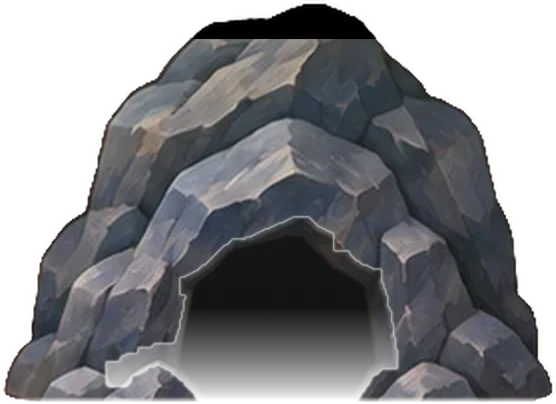
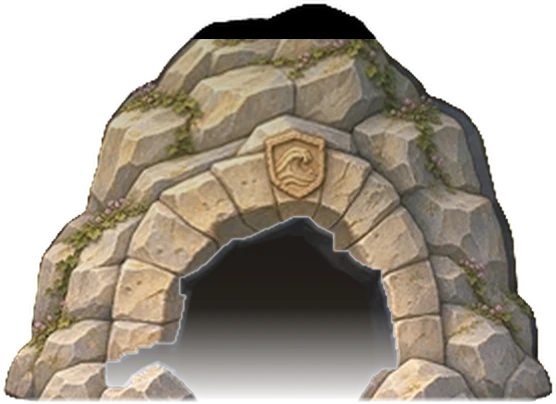
night(codex): round 15

diff --git a/tools/map-compose/test_ground.py b/tools/map-compose/test_ground.py
@@ -8,13 +8,35 @@ import fords
 from banks import shore_foundation
 from gates import draw_threshold_road, output_sprite
 from keeps import Keep, sample
-from masonry import RoadArcade, brick_spur, cart_tracks, paved_road
+from masonry import RoadArcade, arch_bridge, brick_spur, cart_tracks, paved_road
 
 from ground import Decals, DressingArea, brushed_surface, dusty_road_coverage, paint_over_road, road_footprint, road_fringe, scatter
 from ground import windblown_road_coverage
 
 
 class GroundTests(unittest.TestCase):
+    def test_bridge_follows_both_landings_and_exposes_its_arch_above_the_gorge(self):
+        land = Image.new('L', (100, 80), 255)
+        ImageDraw.Draw(land).rectangle((32, 0, 67, 79), fill=0)
+        ImageDraw.Draw(land).rectangle((32, 33, 38, 35), fill=255)
+        paint = Image.new('RGBA', (80, 36), 'tan')
+        ink = ImageDraw.Draw(paint)
+        ink.rectangle((0, 0, 79, 11), fill='silver')
+        ink.rectangle((29, 20, 39, 35), fill=(0, 0, 0, 0))
+        for scale in (1, 2, 3):
+            ground = Image.new('RGBA', (200*scale, 160*scale), 'teal')
+            arch_bridge(ground, paint, land, (200, 160), (20, 40), (180, 80),
+                        12, 24, 6, scale)
+            # Both ends have a deck, with their foundations buried in the bank.
+            for x in (40, 160):
+                y = 40 + (x-20)//4
+                self.assertEqual(ground.getpixel((x*scale, (y-6)*scale)), ImageColor.getcolor('silver', 'RGBA'))
+                self.assertEqual(ground.getpixel((x*scale, (y+14)*scale)), ImageColor.getcolor('teal', 'RGBA'))
+            # A grass spur in front of the left pier hides the masonry all the way down.
+            for x, color in ((72, 'teal'), (80, 'teal'), (108, 'tan'), (120, 'tan')):
+                y = 40 + (x-20)//4 + 15
+                self.assertEqual(ground.getpixel((x*scale, y*scale)), ImageColor.getcolor(color, 'RGBA'))
+
     def test_paving_strip_runs_once_from_the_entrance_and_turns_with_the_lane(self):
         paint = Image.new('RGB', (94, 21), 'slategray')
         ink = ImageDraw.Draw(paint)

diff --git a/tools/map-compose/masonry.py b/tools/map-compose/masonry.py
@@ -6,6 +6,36 @@ import numpy as np
 from PIL import Image, ImageChops, ImageDraw, ImageEnhance, ImageFilter
 
 
+def arch_bridge(ground, paint, land, layout_size, start, end, above, below, curb, scale):
+    """Shear an east-west elevation along the lane, burying its piers in the two banks.
+
+    The endpoints mark the deck centre. Above/below bound the painting vertically
+    relative to that line. Only masonry below the near curb can disappear behind land.
+    """
+    x0, y0 = start
+    x1, y1 = end
+    bounds = (x0, min(y0, y1)-above, x1, max(y0, y1)+below)
+    left, top, right, bottom = (round(v*scale) for v in bounds)
+    size = right-left, bottom-top
+    slope = (y1-y0)/(x1-x0)
+    sx, sy = paint.width/((x1-x0)*scale), paint.height/((above+below)*scale)
+    dx = left-x0*scale
+    matrix = (sx, 0, dx*sx, -slope*sy, sy, (top-(y0-above)*scale-slope*dx)*sy)
+    bridge = paint.transform(size, Image.Transform.AFFINE, matrix, Image.Resampling.BICUBIC)
+
+    mx, my = land.width/(layout_size[0]*scale), land.height/(layout_size[1]*scale)
+    bank = land.transform(size, Image.Transform.EXTENT, (left*mx, top*my, right*mx, bottom*my),
+                          Image.Resampling.BILINEAR)
+    yy, xx = np.ogrid[:size[1], :size[0]]
+    depth = (top+yy+.5)/scale - y0 - slope*((left+xx+.5)/scale-x0)
+    soil = np.asarray(bank) * np.clip(depth-curb, 0, 1)
+    # Once a pier enters the bank, it cannot reappear below the projecting ledge.
+    soil = np.maximum.accumulate(soil, axis=0)
+    bridge.putalpha(ImageChops.multiply(bridge.getchannel('A'), Image.fromarray((255-soil).astype('uint8'))))
+    ground.alpha_composite(bridge, (left, top))
+    return bounds
+
+
 class RoadCourse:
     """Distance along a polyline and a signed offset from its centre."""
     def __init__(self, path):

diff --git a/tools/map-compose/compose.py b/tools/map-compose/compose.py
@@ -92,7 +92,7 @@ from gates import (  # noqa: E402
 )
 import fords  # noqa: E402
 from banks import shore_foundation  # noqa: E402
-from masonry import RoadArcade, brick_spur, cart_tracks, marble_road, moat_wall, paved_road  # noqa: E402
+from masonry import RoadArcade, arch_bridge, brick_spur, cart_tracks, marble_road, moat_wall, paved_road  # noqa: E402
 from keeps import Keep  # noqa: E402
 from ground import (  # noqa: E402
     Decals, DressingArea, brushed_surface, dusty_road_coverage, fine_detail, inner_band, paint_over_road, ragged_mask,
@@ -829,6 +829,10 @@ if ford_patches:
 
 # Crossings share the road centreline. These deck stamps have no collision or sim geometry.
 crossing_rects = []
+for name, start, end, above, below, curb in dressing.get('archBridges', []):
+    bounds = arch_bridge(ground, load(f'landmark-{name}.webp'), land_mask, (iw, ih),
+                         start, end, above, below, curb, S)
+    crossing_rects.append(bounds)
 for name, x, y, length, width, angle in dressing.get('crossings', []):
     deck = load(f'landmark-{name}.webp').resize((round(width * S), round(length * S)), Image.Resampling.LANCZOS)
     deck = deck.rotate(angle, Image.Resampling.BICUBIC, expand=True)

diff --git a/docs/overnight/PROGRESS-codex.md b/docs/overnight/PROGRESS-codex.md
@@ -1,5 +1,28 @@
 # Content overnight · codex
 
+## Round 15 · 04:20–04:45 UTC · codex/night
+
+Started from `6cd2a1f`. Changes are in the working tree for the overnight runner.
+
+### Done
+
+- **i07 Skybridge Gauntlet.** The eastern fort overlooks the outbound crossing. Its watch stair descends to the road opposite the sundial from the intro. The northern bridge carries a teal banner on its middle pier. The return bridge has one recessed arch with a carved sun keystone. Pale setts give way to gravel on the approaches. Replaced the repeated loose anchors and rubble with grass, heather and a few windswept pines. [Whole island and native 2× details](maps-round15-skybridge.jpg)
+- The cliff painting now shows the stream below both decks. Matching limestone ledges carry the tower rings and support the northern pier. An early bake stretched the cliff strata and let a buried abutment reappear through a notch. Repainted the rock faces and corrected the compositor so the bank hides the pier all the way down. A regression exercises the deck slope, open arch and projecting bank at three resolutions. The first phone battle hid the beacon woodstore behind the ability buttons. It now sits east of the buttons in the keep yard. [Source paintings and rebuild command](../../design/art-2d/v2/biomes/highlands/skybridge-gauntlet.md)
+
+### Verification
+
+- Re-baked with `--keep-plots`. All 25 saved layouts match the starting revision byte for byte and pass the geometry checks, including i07's single road, entrance, goal and 26 plots. Decoded all 100 map textures and 132 gate fronts. The four i07 front alpha channels match their originals. An independent bake reproduced all eight shipping files byte for byte. Together they grew by 707,724 bytes, including 86,030 bytes for the phone's 1.5× map.
+- In Bridgehead, two archers and a cannon bought with the starting gold defended the return road. A grunt reached the outbound span 382 simulation steps after the horn and a runner reached the return span at step 1,055. Both screenshots show their feet on the deck. Also played Gauntlet Run with four towers and The Last Span with 16 towers and 60 active enemies. The 12 before/after pairs match on ground-enemy positions, total enemies, builds, lives, gold, camera and texture selection. The final DPR 2 reference pair was recaptured after the browser job was interrupted. Desktop DPR 2 loaded the native 3× map. [1920 × 1080 at DPR 1 and 2, with native combat crops](maps-round15-desktop.jpg) · [844 × 390 phone at DPR 3](maps-round15-phone.jpg)
[1 lines of base64/hex data omitted]
+
+### Requests for other agents
+
+Chapter two is still waiting on the shared roster, clip loader, death callback, story and Turkish entries from the earlier handoffs, plus the i21 horn placement. Round fifteen adds scenery without introducing any player-facing strings.
+
+### Next round
+
+Inspect i02 Twin-Bridge Cay. Its intro shows working wooden quays and boats moored in a harbour. The battle map has dinghies scattered on dry grass, two bare timber decks and a small detached dock by the keep. Fit the boats and a landing to the actual navigable water, check their moorings and the bridge piles at phone size, and keep the two existing crossings. If shared chapter registrations land first, verify the production unlock, stories and first kills.
+
 ## Round 14 · 03:55–04:19 UTC · codex/night
 
 Started from `c1305c7`. The runner owns the commit.

diff --git a/design/art-2d/v2/biomes/highlands/skybridge-gauntlet.md b/design/art-2d/v2/biomes/highlands/skybridge-gauntlet.md
@@ -1,0 +1,27 @@
+# Skybridge Gauntlet
+
+The northern road crosses two arches to the garrison. A teal pennant above the stair matches the cloth on the middle pier. The southern road returns to the keep over a single arch with a sun keystone. The sundial on the western ridge comes from the intro. The keeper has stacked dry wood by the beacon for the evening signal in the outro.
+
+## Rebuild
+
+```sh
+/usr/bin/python3 -B tools/map-compose/rebake_all.py i07
+```
+
+Each `archBridges` entry in the island recipe gives the painting, the west and east deck centres, the distances from the lane to the top and bottom of the painting, and the near curb's distance below the lane. All measurements are in layout pixels. The compositor shears the deck along the road and keeps the piers vertical. A bank in front of a pier hides its masonry down to the bottom of the painting. The rock spur under the northern pier belongs to the terrain.
+
+## Source paintings
+
+The built-in image generator produced the following original scenery. The entrance finish registers to the shipping cave silhouette and mouth. The gate actor mask uses the same aperture at both resolutions.
+
+| Source | Painting brief and preparation |
+| --- | --- |
+| `terrain-i07.webp`, `land-i07.webp` | Two sunlit limestone plateaux with a deep, narrow stream between them. Break their edges into fractured golden rock with blue-grey faces, patches of thyme and olive grass. A second painting restored the cliffs' vertical fractures after fitting the two bridgeheads. The land mask follows the finished lips. |
+| `gorge-ledge.webp` | Projecting meadow turf and a steep broken limestone face, lit from the upper left. The compositor extends a ledge only where a tower ring needs footing. A cutting seats the intermediate pier against the eastern bank of the upper crossing. |
+| `landmark-thyme-bridge.webp` | Two arches in dressed limestone. Ivy and pink flowers pick out one springing. A teal cloth hangs on the central pier. Match the road's stone colour and register the walking surface between the two parapets. |
+| `landmark-sun-bridge.webp` | A single recessed arch in a solid curtain of interlocking stone. Its short bronze-capped posts and carved sun face the player. The thick arch casts a cool shadow under the span. |
+| `tex-span-paving.webp` | Weathered limestone setts partly buried in pale gravel. Four long strips from the painting run along the lane in succession so the stone courses turn with the road. |
+| `landmark-span-garrison.webp`, `landmark-garrison-stairs.webp` | A low stone garrison with square turrets, slate roof, amber windows and teal pennant. A separate worn stair descends from its doorway to the eastern approach. |
+| `landmark-cliff-sundial.webp` | A bronze gnomon casts its shadow across the incised radial markings of a golden limestone dial. Keep the triangular gnomon legible on the phone. |
+| `landmark-span-woodstore.webp` | An unlit iron basket on a stepped plinth beside a slate-roofed store of split logs. A fire rake rests against the woodpile. |
+| `thyme-postern-s.webp` | Fit a limestone arch into the northern cave. Cut a little wave crest above the opening and let thyme grow in the stone joints. Register both jambs and the lintel to the original entrance. |
